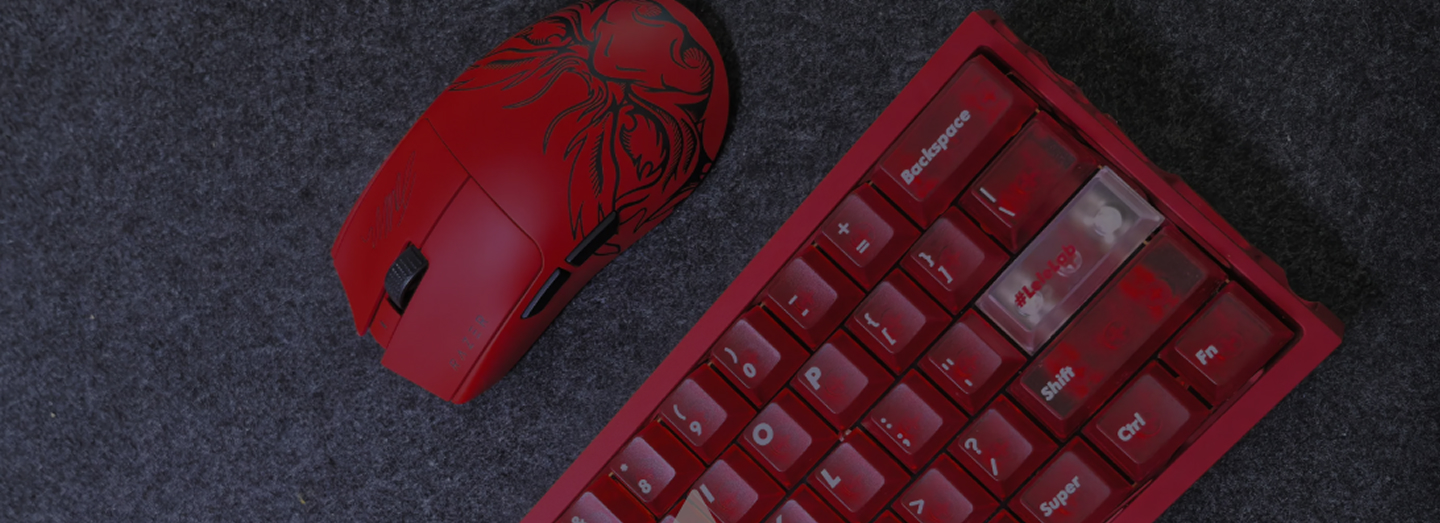
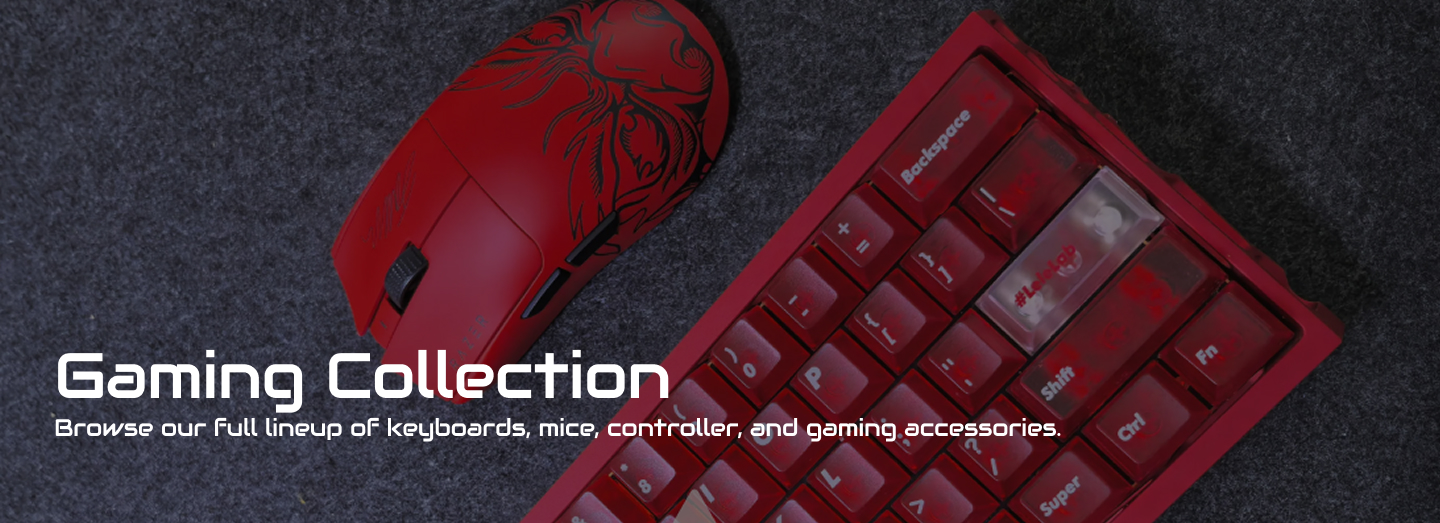
feat: controller section adjust

Changed region(s): [[0.0312, 0.673, 0.75, 0.8566]]

diff --git a/web/css/gaming.css b/web/css/gaming.css
@@ -93,12 +93,11 @@
     justify-content: center;
 }
 
-
+/* button */
 .button {
+    margin-bottom: auto;
     width: 120px;
     padding: 3px;
-    margin-top: auto;
-    margin-bottom: 20px;
 }
 
 .button a {
@@ -106,31 +105,33 @@
 }
 
 /* mice banner section */
-.micesection.banner {
-    margin-top: 100px;
-    position: relative;
+
+.micebanner {
+    background-image: url('../images/bannermice.jpg');
+}
+
+.micebanner {
+    display: flex;
+    flex-direction: column;
+    justify-content: center;
     width: 100%;
-    height: 401px;
-    background-size: 100% 100%;
+    aspect-ratio: 1/0.4;
+    box-sizing: border-box;
     background-size: cover;
     background-position: center;
+    background-repeat: no-repeat;
 }
 
 .micebanner-title {
-    position: absolute;
-    left: 54px;
-    top: 50%;
-    transform: translateY(-50%);
-    width: 60%;
-    color: white;
+    width: 75%;
 }
 
 .micebanner-title h2 {
-    margin: 0 0 20px 0;
+    margin: 0 54px;
 }
 
 .micebanner-title h5 {
-    margin: 0;
+    margin: 0 54px;
 }
 
 /* keyboard section */
@@ -186,30 +187,78 @@
     text-align: center;
 }
 
-/* keyboard banner section */
-.keyboardsection.banner {
-    margin-top: 100px;
-    position: relative;
+/* mice banner section */
+
+.keyboardbanner {
+    background-image: url('../images/bannerkeyboard.jpg');
+}
+
+.keyboardbanner {
+    display: flex;
+    flex-direction: column;
+    justify-content: center;
     width: 100%;
-    height: 401px;
-    background-size: 100% 100%;
+    aspect-ratio: 1/0.4;
+    box-sizing: border-box;
     background-size: cover;
     background-position: center;
+    background-repeat: no-repeat;
 }
 
 .keyboardbanner-title {
-    position: absolute;
-    right: 54px;
-    top: 45%;
-    transform: translateY(-50%);
-    width: 60%;
-    color: white;
+    margin: 0 0 0 300px;
+    width: 75%;
 }
 
 .keyboardbanner-title h2 {
-    margin: 0 0 20px 0;
+    margin: 0 54px;
 }
 
 .keyboardbanner-title h5 {
-    margin: 0;
+    margin: 0 54px;
+}
+
+/* controller section */
+.controller-section {
+    margin: 100px 54px;
+}
+
+.controller-title {
+    text-align: center;
+    margin: 100px 0 60px 0;
+}
+
+.controller-row1 {
+    display: flex;
+    justify-content: center;
+    gap: 50px;
+}
+
+.controller-card {
+    display: flex;
+    align-items: center;
+    padding: 40px 50px;
+    gap: 50px;
+    height: 360px;
+}
+
+.controllerimg-box {
+    flex: 0 0 300px;
+    display: flex;
+    align-items: center;
+    justify-content: center;
+}
+
+.controllerimg-box img {
+    width: 100%;
+    max-width: 300px;
+    height: auto;
+}
+
+.controllerinfo-box {
+    flex: 1;
+    height: 100%;
+    display: flex;
+    flex-direction: column;
+    justify-content: space-between;
 }

diff --git a/web/gaming.html b/web/gaming.html
@@ -227,7 +227,7 @@
         </div>
     </div>
 
-    <div class="micesection banner" style="background-image:url('images/micephoto.png');">
+    <div class="micebanner">
         <div class="micebanner-title">
             <h2>Precision Meets Performance</h2>
             <h5>Our curated selection of gaming mice delivers the perfect balance of speed, accuracy, and comfort.</h5>
@@ -362,7 +362,7 @@
 
     </div>
 
-    <div class="keyboardsection banner" style="background-image:url('images/bannerkeyboard.png');">
+    <div class="keyboardbanner">
         <div class="keyboardbanner-title">
             <h2>Responsiveness.
                 <br>Precision.
@@ -385,8 +385,8 @@
             <div class="controller-row1">
 
                 <!-- Card 1 -->
-                <div class="gradient-card controller-cardborder1">
-                    <div class="gradient-card-inner controller-card1">
+                <div class="gradient-card controller-cardborder">
+                    <div class="gradient-card-inner controller-card card1">
 
                         <div class="controllerimg-box">
                             <img src="images/Controller1.png" alt="DualSense Wireless Controller">
@@ -410,8 +410,8 @@
                 </div>
 
                 <!-- Card 2 -->
-                <div class="gradient-card controller-cardborder2">
-                    <div class="gradient-card-inner controller-card2">
+                <div class="gradient-card controller-cardborder">
+                    <div class="gradient-card-inner controller-card card2">
 
                         <div class="controllerimg-box">
                             <img src="images/Controller2.png" alt="ROG Kunai 3 Gamepad">
